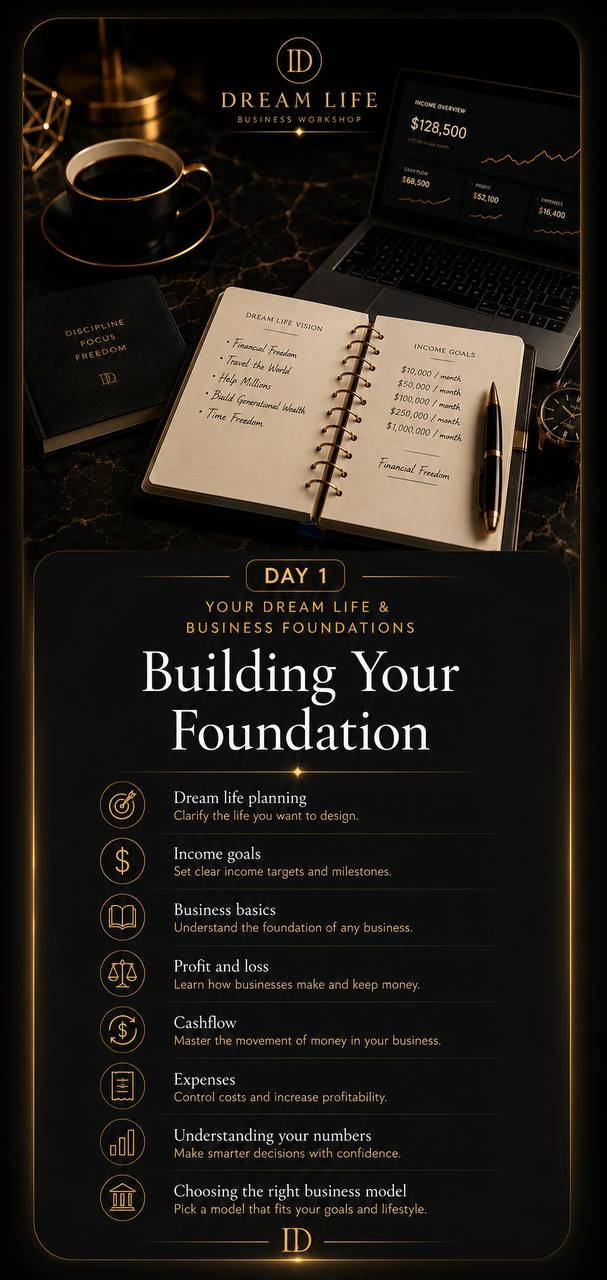
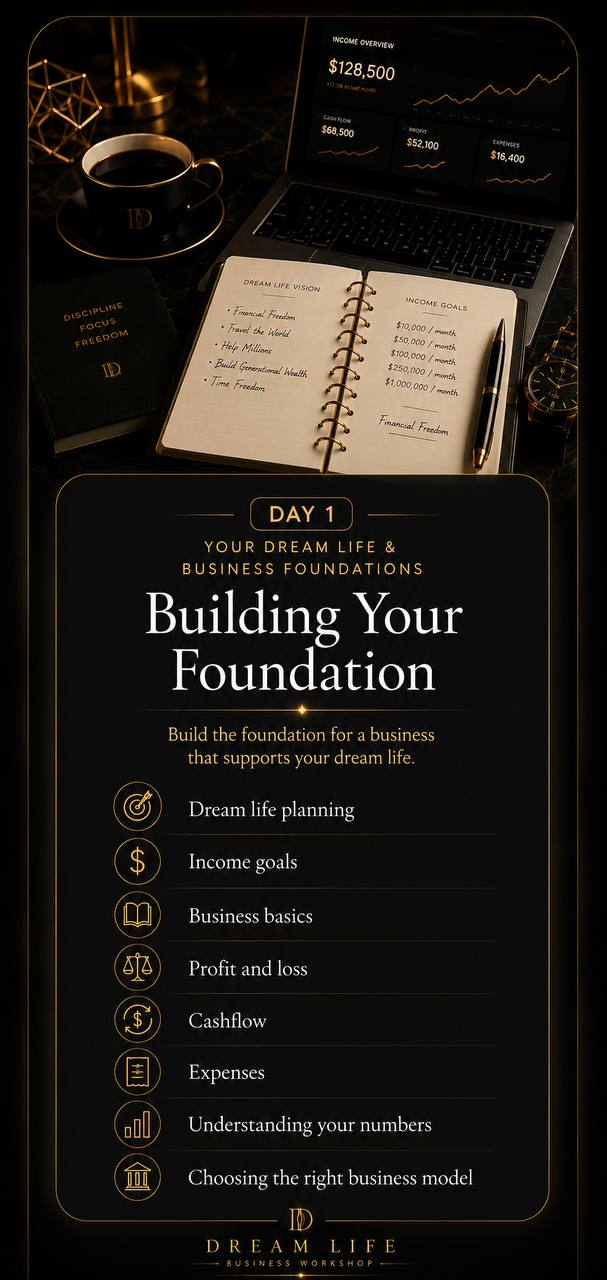
Add thank you page and updated images

diff --git a/index.html b/index.html
@@ -1273,10 +1273,16 @@
                 </picture>
             </div>
             <div class="day-image">
-                <img src="day2-image.jpg" alt="Workshop Schedule">
+                <picture>
+                    <source media="(max-width: 767px)" srcset="day2-mobile.jpg">
+                    <img src="day2-image.jpg" alt="Workshop Schedule">
+                </picture>
             </div>
             <div class="day-image">
-                <img src="day2-bottom-image.jpg" alt="Day 2 Details">
+                <picture>
+                    <source media="(max-width: 767px)" srcset="day3-mobile.jpg">
+                    <img src="day2-bottom-image.jpg" alt="Day 2 Details">
+                </picture>
             </div>
             <div class="day-image">
                 <img src="day2-third-image.jpg" alt="Day 2 Additional Content">